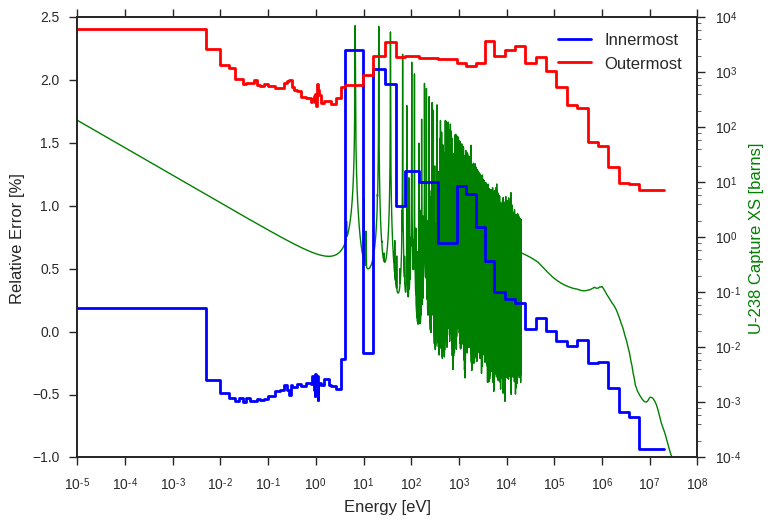
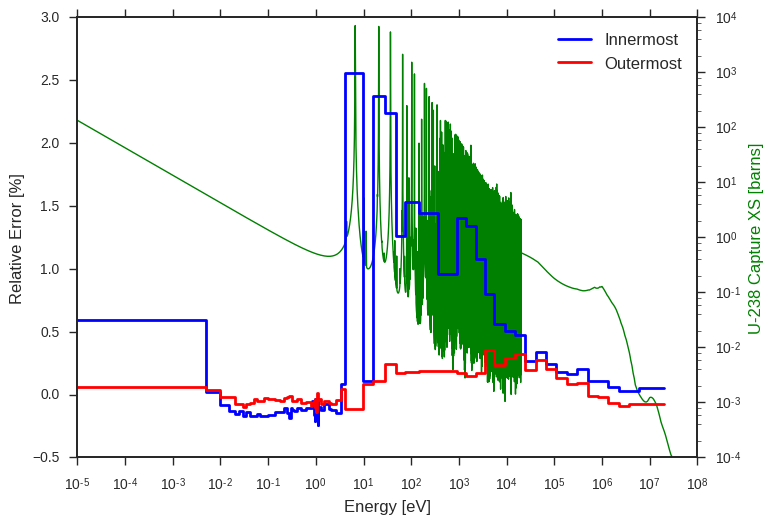
Updated plots for pin cell bias; began writing chap 5

diff --git a/chapters/sph.tex b/chapters/sph.tex
@@ -1,16 +1,32 @@
 \chapter{Angular-Dependent MGXS}
 \label{chap:sph}
 
+The results in Chapter~\ref{chap:biases} demonstrated that using the ``true'' flux spectrum from Monte Carlo to perform energy condensation and spatial homogenization will not necessarily result in accurate deterministic multi-group calculations. Large systematic biases in the eigenvalue were observed even for simple heterogeneous benchmark models, and these biases were highly dependent on the energy group structure and spatial discretization used in the multi-group deterministic calculation. In Section~\ref{sec:chap4-diagnosis} it was shown that the bias largely derives from errors in the multi-group reaction rates in the large thermal U-238 capture resonances, and that the errors systematically vary in space within the fuel. These results indicate that one or more of the approximations made in multi-group transport theory are invalidated in heterogeneous geometries and prevents spatial self-shielding at the fuel/moderator interface in \ac{PWR} geometries to be treated appropriately.
+
+Although Chapter~\ref{chap:biases} quantified energy and spatial approximations in multi-group theory, it did not consider the constant-in-angle approximation (see Section~\ref{subsubsec:chap2-const-in-angle}). This chapter reviews some recent work by by Gibson~\cite{gibson2016thesis} to quantify the approximation error resolved with angular dependent \ac{MGXS}, which closely mirrors the trends observed in Chapter~\ref{chap:biases}. The historical \ac{SPH} factor concept is introduced in the context of angular-dependent \ac{MGXS}, and \ac{SPH} factors are applied to simple heterogeneous benchmarks and the results analyzed. Finally, this chapter concludes with a summary of the shortcomings of the \ac{SPH} approach and the need for new methods to account for the angular dependence in \ac{MGXS}.
+
+%Chapter~\ref{chap:mgxs} detailed the approximations made in the multi-group form of the transport equation. 
+
 
 %%%%%%%%%%%%%%%%%%%%%%%%%%%%%%%%%%%%%%%%%%%%%%%%%%%%%%%%%%%%%%%%%%%%%%%%%%%%%%%
 \section{Background}
 \label{sec:chap5-background}
+
+The results in Chapter~\ref{chap:biases} demonstrated systematic biases between continuous energy Monte Carlo and deterministic multi-group simulations of simple heterogeneous benchmark models. In Section~\ref{sec:chap4-diagnosis} it was shown that these biases largely derive from errors in the multi-group fluxes/reaction rates in the large thermal U-238 capture resonances. 
+
+-sentence wrapping this paragraph up - talk about spatial self-shielding and segue
+
+These results closely mirror observations by Gibson~\cite{gibson2016thesis} which quantified the errors fundamental to the total 
+
+ illustrated 
 
 \begin{itemize}[noitemsep]
   \item return to angular vs. flux weighting (Section~\ref{subsubsec:chap2-const-in-angle})
   \item Gibson's ``batman'' plot and results
   \item Nelson's 1D slab plot(s)?
 \end{itemize}
+
+\cite{gibson2016thesis}
 
 
 \begin{figure}[H]

diff --git a/chapters/biases.tex b/chapters/biases.tex
@@ -691,7 +691,7 @@ The trends analyzed in Table~\ref{table:chap4-pin-energy} emerge in a similar ma
 \section{Diagnosing the Error}
 \label{sec:chap4-diagnosis}
 
-The emergence of a negative systematic bias in the eigenvalue with fine energy and spatial discretization for the heterogeneous 1D slab and 2D fuel pin models led to an analysis of the flux spectra computed by OpenMC and OpenMOC. The 70-group volume-averaged flux in energy for both benchmarks is illustrated in Figure~\ref{fig:chap4-flux}. Upon further inspection, it was noted that OpenMOC's flux exhibited large errors with respect to the reference OpenMC flux in those energy groups which isolate large U-238 capture resonances. The error in the 70-group flux is illustrated in Figure~\ref{fig:chap4-rel-err-energy} for the \ac{FSR}s nearest and furthest from the moderator for the benchmark models with a 16$\times$ \ac{FSR} discretization. Figure~\ref{fig:chap4-rel-err-space} highlights the spatial dependence of the error in group 27 across the fuel which isolates the largest U-238 capture resonance at 6.67 eV. In the case of the slab, the error monotonically decreases from a maximum of $\sim$2.2\% to a minimum of $\sim$-0.3\% in those \ac{FSR}s furthest and nearest the moderator, respectively. The error across the fuel pin, however, does not exhibit a clear trend and wildly swings from -4\% to nearly 8\%, even for equal volume rings which are adjacent to one another. It is unclear why the spatial variation in the fuel pin is so different from that of its ``equivalent'' slab, and this should be investigated in the future.
+The emergence of a negative systematic bias in the eigenvalue with fine energy and spatial discretization for the heterogeneous 1D slab and 2D fuel pin models led to an analysis of the flux spectra computed by OpenMC and OpenMOC. The 70-group volume-averaged flux in energy for both benchmarks is illustrated in Figure~\ref{fig:chap4-flux}. Upon further inspection, it was noted that OpenMOC's flux exhibited large errors with respect to the reference OpenMC flux in those energy groups which isolate large U-238 capture resonances. The error in the 70-group flux is illustrated in Figure~\ref{fig:chap4-rel-err-energy} for the \ac{FSR}s nearest and furthest from the moderator for the benchmark models with a 16$\times$ \ac{FSR} discretization. Figure~\ref{fig:chap4-rel-err-space} highlights the spatial dependence of the error in group 27 across the fuel which isolates the largest U-238 capture resonance at 6.67 eV. For both the slab and the fuel pin the error monotonically decreases from a maximum of more than 2\% to a minimum of $\sim$-0.3\% in those \ac{FSR}s furthest and nearest the moderator, respectively. 
 
 \begin{figure}[H]
 \begin{subfigure}{.5\textwidth}

diff --git a/data/biases/pin-cell/plot-flux.py b/data/biases/pin-cell/plot-flux.py
@@ -127,7 +127,7 @@ for cell_id, cell in cells.items():
     cell.setNumSectors(8)
 
 # Initialize an OpenMOC TrackGenerator and Solver
-track_generator = openmoc.TrackGenerator(openmoc_geometry, 128, 0.05)
+track_generator = openmoc.TrackGenerator(openmoc_geometry, 512, 0.001)
 track_generator.setNumThreads(opts.num_omp_threads)
 track_generator.generateTracks(store=False)
 

diff --git a/data/biases/pin-cell/rxn-rate-error.py b/data/biases/pin-cell/rxn-rate-error.py
@@ -111,7 +111,7 @@ for i, num_groups in enumerate(groups):
         cell.setNumSectors(8)
 
     # Generate tracks
-    track_generator = openmoc.TrackGenerator(openmoc_geometry, 128, 0.05)
+    track_generator = openmoc.TrackGenerator(openmoc_geometry, 512, 0.001)
     track_generator.setNumThreads(opts.num_omp_threads)
     track_generator.generateTracks(store=False)
 
